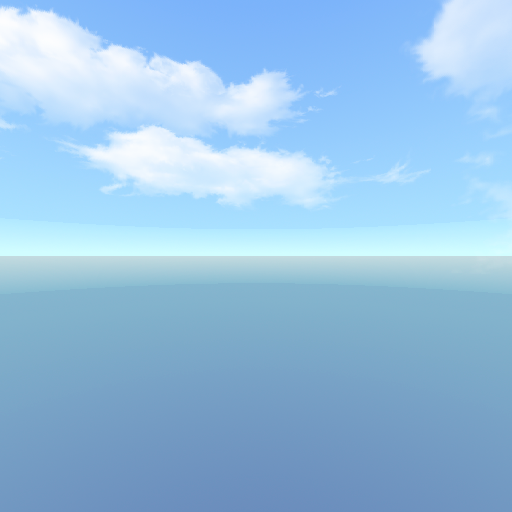
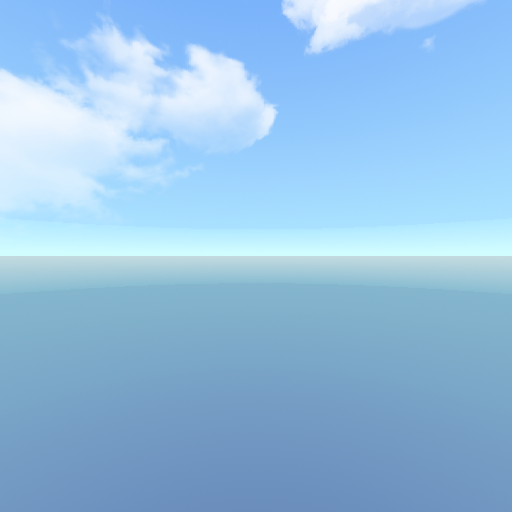
Select Skybox window added

diff --git a/Engine/SkyBox.cpp b/Engine/SkyBox.cpp
@@ -3,6 +3,8 @@
 #include "ModuleTextures.h"
 #include "ModuleRenderer3D.h"
 
+#define NUM_SKYBOX 2
+
 SkyBox::SkyBox()
 {
 }
@@ -15,58 +17,75 @@ SkyBox::~SkyBox()
 
 void SkyBox::InitSkybox()
 {
-	skybox[SkyBoxSide::SKY_LEFT] = App->textures->LoadSkyboxTexture("Images/Skybox/left.png");
-	skybox[SkyBoxSide::SKY_BACK] = App->textures->LoadSkyboxTexture("Images/Skybox/back.png");
-	skybox[SkyBoxSide::SKY_RIGHT] = App->textures->LoadSkyboxTexture("Images/Skybox/right.png");
-	skybox[SkyBoxSide::SKY_FRONT] = App->textures->LoadSkyboxTexture("Images/Skybox/front.png");
-	skybox[SkyBoxSide::SKY_TOP] = App->textures->LoadSkyboxTexture("Images/Skybox/top.png");
-	skybox[SkyBoxSide::SKY_BOTTOM] = App->textures->LoadSkyboxTexture("Images/Skybox/bottom.png");
+	// SKYBOX 1 -----------------------------------------
+	texture[0][SkyBoxSide::SKY_LEFT] = App->textures->LoadSkyboxTexture("Images/Skybox/Skybox1/left.png");
+	texture[0][SkyBoxSide::SKY_BACK] = App->textures->LoadSkyboxTexture("Images/Skybox/Skybox1/back.png");
+	texture[0][SkyBoxSide::SKY_RIGHT] = App->textures->LoadSkyboxTexture("Images/Skybox/Skybox1/right.png");
+	texture[0][SkyBoxSide::SKY_FRONT] = App->textures->LoadSkyboxTexture("Images/Skybox/Skybox1/front.png");
+	texture[0][SkyBoxSide::SKY_TOP] = App->textures->LoadSkyboxTexture("Images/Skybox/Skybox1/top.png");
+	texture[0][SkyBoxSide::SKY_BOTTOM] = App->textures->LoadSkyboxTexture("Images/Skybox/Skybox1/bottom.png");
+
+	// SKYBOX 2 -------------------------------------------
+	texture[1][SkyBoxSide::SKY_LEFT] = App->textures->LoadSkyboxTexture("Images/Skybox/Skybox2/left.png");
+	texture[1][SkyBoxSide::SKY_BACK] = App->textures->LoadSkyboxTexture("Images/Skybox/Skybox2/back.png");
+	texture[1][SkyBoxSide::SKY_RIGHT] = App->textures->LoadSkyboxTexture("Images/Skybox/Skybox2/right.png");
+	texture[1][SkyBoxSide::SKY_FRONT] = App->textures->LoadSkyboxTexture("Images/Skybox/Skybox2/front.png");
+	texture[1][SkyBoxSide::SKY_TOP] = App->textures->LoadSkyboxTexture("Images/Skybox/Skybox2/top.png");
+	texture[1][SkyBoxSide::SKY_BOTTOM] = App->textures->LoadSkyboxTexture("Images/Skybox/Skybox2/bottom.png");
+
+	// For now, we load and draw these 2 unique skyboxes using direct mode (changed for the new release).
 }
 
-void SkyBox::DrawSkybox(float size, float3 pos)
+void SkyBox::DrawSkybox(float size, float3 pos, uint i)
 {
+	if (i >= NUM_SKYBOX)
+	{
+		LOG("Invalid skybox index.");
+		return;
+	}
+
 	glDisable(GL_LIGHTING);
 	glDisable(GL_DEPTH_TEST);
 	glEnable(GL_TEXTURE_2D);
 
-	//back face GOOD
-	glBindTexture(GL_TEXTURE_2D, skybox[SkyBoxSide::SKY_BACK]);
+	//back face 
+	glBindTexture(GL_TEXTURE_2D, texture[i][SkyBoxSide::SKY_BACK]);
 	glBegin(GL_QUADS);
-	glTexCoord2f(1, 0); glVertex3f(-size / 2 + pos.x, size / 2 + pos.y, size / 2 + pos.z);
-	glTexCoord2f(0, 0); glVertex3f(size / 2 + pos.x, size / 2 + pos.y, size / 2 + pos.z);
-	glTexCoord2f(0, 1); glVertex3f(size / 2 + pos.x, -size / 2 + pos.y, size / 2 + pos.z);
-	glTexCoord2f(1, 1); glVertex3f(-size / 2 + pos.x, -size / 2 + pos.y, size / 2 + pos.z);
+	glTexCoord2f(0, 1); glVertex3f(-size / 2 + pos.x, size / 2 + pos.y, size / 2 + pos.z);
+	glTexCoord2f(1, 1); glVertex3f(size / 2 + pos.x, size / 2 + pos.y, size / 2 + pos.z);
+	glTexCoord2f(1, 0); glVertex3f(size / 2 + pos.x, -size / 2 + pos.y, size / 2 + pos.z);
+	glTexCoord2f(0, 0); glVertex3f(-size / 2 + pos.x, -size / 2 + pos.y, size / 2 + pos.z);
 	glEnd();
 
-	//left face GOOD
-	glBindTexture(GL_TEXTURE_2D, skybox[SkyBoxSide::SKY_LEFT]);
+	//left face 
+	glBindTexture(GL_TEXTURE_2D, texture[i][SkyBoxSide::SKY_LEFT]);
 	glBegin(GL_QUADS);
-	glTexCoord2f(0, 1); glVertex3f(-size / 2 + pos.x, -size / 2 + pos.y, size / 2 + pos.z);
-	glTexCoord2f(1, 1); glVertex3f(-size / 2 + pos.x, -size / 2 + pos.y, -size / 2 + pos.z);
-	glTexCoord2f(1, 0); glVertex3f(-size / 2 + pos.x, size / 2 + pos.y, -size / 2 + pos.z);
-	glTexCoord2f(0, 0); glVertex3f(-size / 2 + pos.x, size / 2 + pos.y, size / 2 + pos.z);
+	glTexCoord2f(1, 0); glVertex3f(-size / 2 + pos.x, -size / 2 + pos.y, size / 2 + pos.z);
+	glTexCoord2f(0, 0); glVertex3f(-size / 2 + pos.x, -size / 2 + pos.y, -size / 2 + pos.z);
+	glTexCoord2f(0, 1); glVertex3f(-size / 2 + pos.x, size / 2 + pos.y, -size / 2 + pos.z);
+	glTexCoord2f(1, 1); glVertex3f(-size / 2 + pos.x, size / 2 + pos.y, size / 2 + pos.z);
 	glEnd();
 
-	//front face GOOD
-	glBindTexture(GL_TEXTURE_2D, skybox[SkyBoxSide::SKY_FRONT]);
+	//front face
+	glBindTexture(GL_TEXTURE_2D, texture[i][SkyBoxSide::SKY_FRONT]);
 	glBegin(GL_QUADS);
-	glTexCoord2f(1, 0); glVertex3f(size / 2 + pos.x, size / 2 + pos.y, -size / 2 + pos.z);
-	glTexCoord2f(0, 0); glVertex3f(-size / 2 + pos.x, size / 2 + pos.y, -size / 2 + pos.z);
-	glTexCoord2f(0, 1); glVertex3f(-size / 2 + pos.x, -size / 2 + pos.y, -size / 2 + pos.z);
-	glTexCoord2f(1, 1); glVertex3f(size / 2 + pos.x, -size / 2 + pos.y, -size / 2 + pos.z);
+	glTexCoord2f(0, 1); glVertex3f(size / 2 + pos.x, size / 2 + pos.y, -size / 2 + pos.z);
+	glTexCoord2f(1, 1); glVertex3f(-size / 2 + pos.x, size / 2 + pos.y, -size / 2 + pos.z);
+	glTexCoord2f(1, 0); glVertex3f(-size / 2 + pos.x, -size / 2 + pos.y, -size / 2 + pos.z);
+	glTexCoord2f(0, 0); glVertex3f(size / 2 + pos.x, -size / 2 + pos.y, -size / 2 + pos.z);
 	glEnd();
 
-	//right face
-	glBindTexture(GL_TEXTURE_2D, skybox[SkyBoxSide::SKY_RIGHT]);
+	//right face 
+	glBindTexture(GL_TEXTURE_2D, texture[i][SkyBoxSide::SKY_RIGHT]);
 	glBegin(GL_QUADS);
-	glTexCoord2f(0, 1); glVertex3f(size / 2 + pos.x, -size / 2 + pos.y, -size / 2 + pos.z);
-	glTexCoord2f(1, 1); glVertex3f(size / 2 + pos.x, -size / 2 + pos.y, size / 2 + pos.z);
-	glTexCoord2f(1, 0); glVertex3f(size / 2 + pos.x, size / 2 + pos.y, size / 2 + pos.z);
-	glTexCoord2f(0, 0); glVertex3f(size / 2 + pos.x, size / 2 + pos.y, -size / 2 + pos.z);
+	glTexCoord2f(1, 0); glVertex3f(size / 2 + pos.x, -size / 2 + pos.y, -size / 2 + pos.z);
+	glTexCoord2f(0, 0); glVertex3f(size / 2 + pos.x, -size / 2 + pos.y, size / 2 + pos.z);
+	glTexCoord2f(0, 1); glVertex3f(size / 2 + pos.x, size / 2 + pos.y, size / 2 + pos.z);
+	glTexCoord2f(1, 1); glVertex3f(size / 2 + pos.x, size / 2 + pos.y, -size / 2 + pos.z);
 	glEnd();
 
-	//top face GOOD
-	glBindTexture(GL_TEXTURE_2D, skybox[SkyBoxSide::SKY_TOP]);
+	//top face 
+	glBindTexture(GL_TEXTURE_2D, texture[i][SkyBoxSide::SKY_TOP]);
 	glBegin(GL_QUADS);
 	glTexCoord2f(1, 0); glVertex3f(size / 2 + pos.x, size / 2 + pos.y, size / 2 + pos.z);
 	glTexCoord2f(0, 0); glVertex3f(-size / 2 + pos.x, size / 2 + pos.y, size / 2 + pos.z);
@@ -74,13 +93,13 @@ void SkyBox::DrawSkybox(float size, float3 pos)
 	glTexCoord2f(1, 1); glVertex3f(size / 2 + pos.x, size / 2 + pos.y, -size / 2 + pos.z);
 	glEnd();
 
-	//bottom face GOOD
-	glBindTexture(GL_TEXTURE_2D, skybox[SkyBoxSide::SKY_BOTTOM]);
+	//bottom face 
+	glBindTexture(GL_TEXTURE_2D, texture[i][SkyBoxSide::SKY_BOTTOM]);
 	glBegin(GL_QUADS);
-	glTexCoord2f(0, 0); glVertex3f(size / 2 + pos.x, -size / 2 + pos.y, size / 2 + pos.z);
-	glTexCoord2f(0, 1); glVertex3f(size / 2 + pos.x, -size / 2 + pos.y, -size / 2 + pos.z);
-	glTexCoord2f(1, 1); glVertex3f(-size / 2 + pos.x, -size / 2 + pos.y, -size / 2 + pos.z);
-	glTexCoord2f(1, 0); glVertex3f(-size / 2 + pos.x, -size / 2 + pos.y, size / 2 + pos.z);
+	glTexCoord2f(1, 1); glVertex3f(size / 2 + pos.x, -size / 2 + pos.y, size / 2 + pos.z);
+	glTexCoord2f(1, 0); glVertex3f(size / 2 + pos.x, -size / 2 + pos.y, -size / 2 + pos.z);
+	glTexCoord2f(0, 0); glVertex3f(-size / 2 + pos.x, -size / 2 + pos.y, -size / 2 + pos.z);
+	glTexCoord2f(0, 1); glVertex3f(-size / 2 + pos.x, -size / 2 + pos.y, size / 2 + pos.z);
 
 	glEnd();
 
@@ -101,5 +120,16 @@ void SkyBox::DrawSkybox(float size, float3 pos)
 
 void SkyBox::DeleteSkyboxTex()
 {
-	glDeleteTextures(6, &skybox[0]);
+	glDeleteTextures(6, &texture[0][0]);
+	glDeleteTextures(6, &texture[1][0]);
+}
+
+uint SkyBox::GetTextureID(uint i) const
+{
+	if (i <= NUM_SKYBOX)
+	{
+		return texture[i][1];
+	}
+	LOG("Invalid skybox index.");
+	return 0;
 }

diff --git a/Engine/Scene.cpp b/Engine/Scene.cpp
@@ -69,6 +69,8 @@ bool Scene::Start()
 	//Init Skybox
 	skybox = new SkyBox();
 	skybox->InitSkybox();
+	skybox_index = 1;
+	draw_skybox = true;
 
 	Start_t = perf_timer.ReadMs();
 	return true;
@@ -159,8 +161,9 @@ update_status Scene::UpdateConfig(float dt)
 	ImGui::PushItemWidth(ImGui::GetWindowWidth() / 4);
 	ImGui::SliderInt("Plane Size", &size_plane, 5, 1000);
 
+	//QUADTREE EDITOR ----------------------------------
 	ImGui::PushStyleColor(ImGuiCol_Text, ImVec4(1.00f, 0.761f, 0.00f, 1.00f));
-	if (ImGui::TreeNodeEx("QUADTREE"))
+	if (ImGui::TreeNodeEx("QUADTREE", ImGuiTreeNodeFlags_DefaultOpen))
 	{
 		ImGui::PopStyleColor();
 
@@ -168,7 +171,7 @@ update_status Scene::UpdateConfig(float dt)
 		ImGui::Text("Draw Quadtree");
 		ImGui::SliderFloat("Size", &size_quadtree, 50, 300);
 
-		if(ImGui::Button("UPDATE QUADTREE"))	
+		if(ImGui::Button("UPDATE QUADTREE"))
 		{ 
 			if (App->engineState == EngineState::STOP)
 			{
@@ -186,6 +189,34 @@ update_status Scene::UpdateConfig(float dt)
 			{
 				LOG("Update Quadtree not possible while GAME MODE");
 			}
+		}
+		ImGui::TreePop();
+	}
+	else
+	{
+		ImGui::PopStyleColor();
+	}
+
+	// SKYBOX EDITOR -----------------------------------
+	ImGui::PushStyleColor(ImGuiCol_Text, ImVec4(1.00f, 0.761f, 0.00f, 1.00f));
+	if (ImGui::TreeNodeEx("SKYBOX", ImGuiTreeNodeFlags_DefaultOpen))
+	{
+		ImGui::PopStyleColor();
+		const char* skybox_selection[] = { "AFTERNOON", "SUNNY DAY", "NONE" };
+		if (ImGui::Combo("Select Skybox", &skybox_index, skybox_selection, IM_ARRAYSIZE(skybox_selection)))
+		{
+			if (skybox_index == 2) // Selected "NONE"
+			{
+				draw_skybox = false;
+			}
+			else
+			{
+				draw_skybox = true;
+			}
+		}
+		if (draw_skybox)
+		{
+			ImGui::Image((ImTextureID*)skybox->GetTextureID(skybox_index), ImVec2(170, 170), ImVec2(1, 1), ImVec2(0, 0));
 		}
 		ImGui::TreePop();
 	}

diff --git a/Engine/ModuleRenderer3D.cpp b/Engine/ModuleRenderer3D.cpp
@@ -206,9 +206,11 @@ update_status ModuleRenderer3D::PostUpdate(float dt)
 {
 	perf_timer.Start();
 	
-	// Draw Skybox
-	App->scene->skybox->DrawSkybox(500, active_camera->frustum.pos);
-
+	// Draw Skybox (direct mode for now)
+	if (App->scene->draw_skybox)
+	{
+		App->scene->skybox->DrawSkybox(800, active_camera->frustum.pos, App->scene->skybox_index);
+	}
 	//Draw Test Cube
 	//App->scene->DrawCube(5);
 

diff --git a/Engine/ModuleWindow.cpp b/Engine/ModuleWindow.cpp
@@ -218,7 +218,6 @@ update_status ModuleWindow::UpdateConfig(float dt)
 	if (ImGui::Button("APPLY##win_resolution"))
 	{
 		SetWindowRes(selected_res);
-
 	}
 	const char* win_opt[] = { "Fullscreen", "Full Desktop", "Windowed" };
 	ImGui::Combo("Window Options", &selected_op, win_opt, IM_ARRAYSIZE(win_opt)); ImGui::SameLine();

diff --git a/Engine/SkyBox.h b/Engine/SkyBox.h
@@ -19,10 +19,12 @@ public:
 	virtual ~SkyBox();
 
 	void InitSkybox();
-	void DrawSkybox(float size, float3 pos);
+	void DrawSkybox(float size, float3 pos, uint i);
 	void DeleteSkyboxTex();
 
+	uint GetTextureID(uint i) const;
+
 private:
-	uint skybox[6];
+	uint texture[2][6];
 };
 

diff --git a/Engine/Scene.h b/Engine/Scene.h
@@ -60,9 +60,10 @@ public:
 	GameObject* drag = nullptr;
 	GLuint icon_options_transform;
 	SkyBox* skybox = nullptr;
+	int skybox_index = 0;
+	bool draw_skybox = true;
 
 private:
 	int size_plane = 0;
 	float size_quadtree = 0;
-
 };
